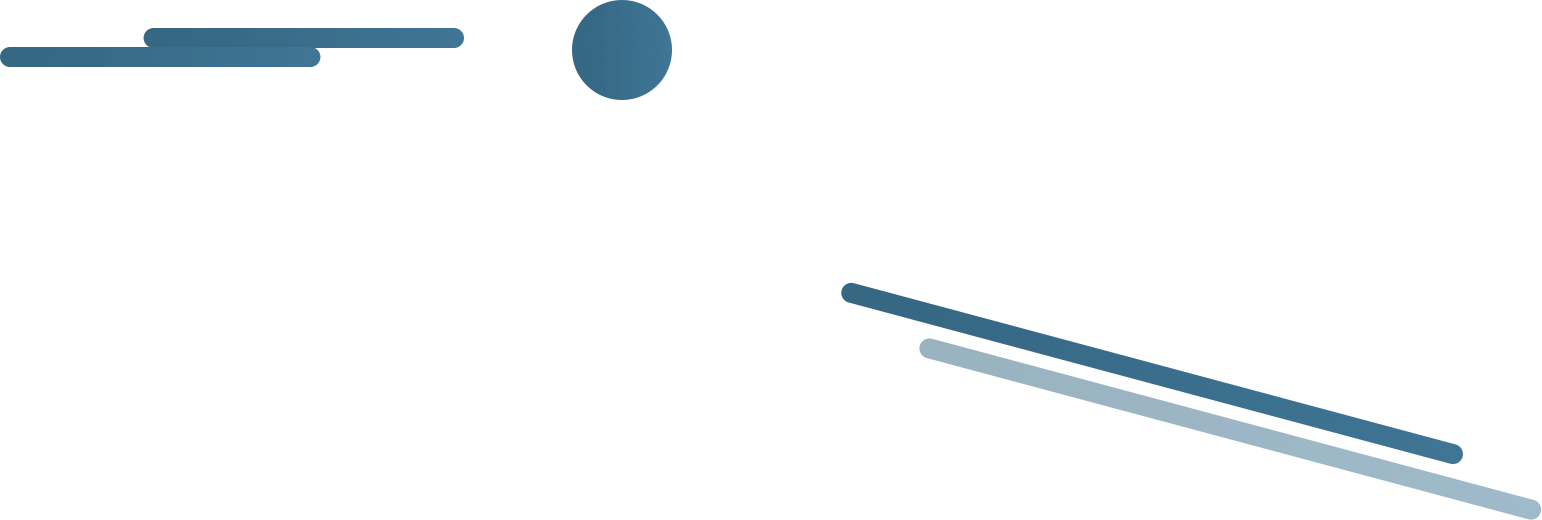
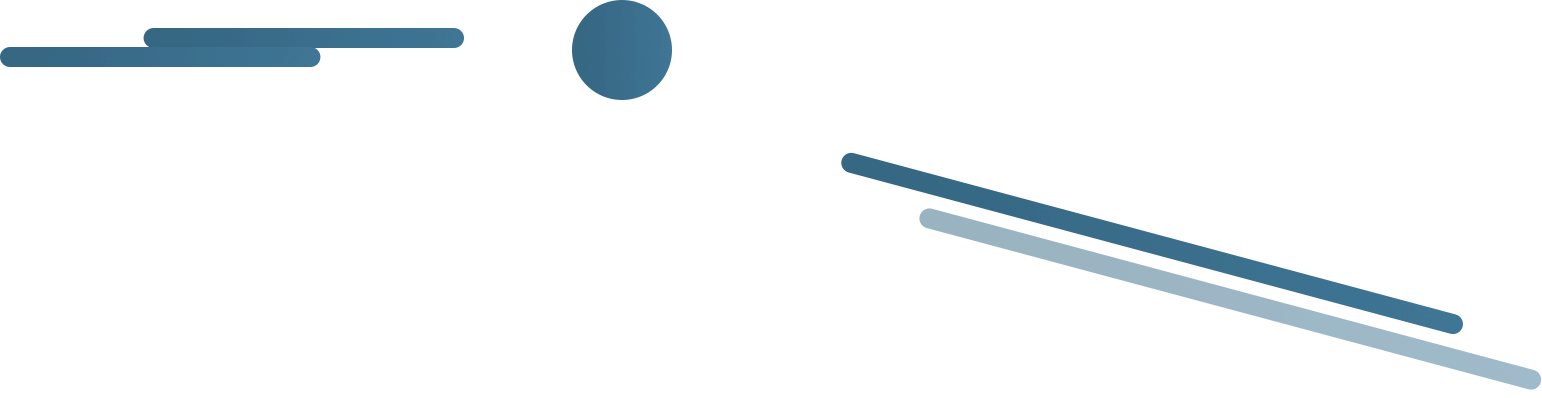
调整4:3显示器高度的适配问题

diff --git a/src/components/menu.vue b/src/components/menu.vue
@@ -102,11 +102,11 @@
 <style scoped>
   * {margin: 0; padding: 0;}
   html, body {width: 100%; height: 100%; min-height: 100%; overflow: hidden;}
-  .bg {height: 580px; position: relative; z-index: 1; background: #3d6e8a url('../assets/menu-bg.png') no-repeat center top;}
+  .bg {height: 480px; position: relative; z-index: 1; background: #3d6e8a url('../assets/menu-bg.png') no-repeat center top;}
   .f16 {font-size: 16px;}
   .menu {width: 100%; height: 175px;}
   .menu > .menuInfo, .menu > .menuItem {text-align: right; width: 66%; margin: 0 auto;}
-  .menu > .menuInfo {padding-top: 40px;}
+  .menu > .menuInfo {padding-top: 35px;}
   .menu > .menuItem {padding: 15px 0;}
 
   .menuInfo span, .menuItem a {font-size: 14px; color: #579bc2; text-align: right; display: inline-block; vertical-align: middle;}
@@ -127,7 +127,7 @@
   .menuItem .bag {width: 28px; height: 28px; border-radius: 10px; background: url('../assets/bag.png') no-repeat center center;}
   .menuItem .help {width: 28px; height: 28px; border-radius: 14px; background: url('../assets/help.png') no-repeat center center;}
 
-  .menuContent {position: fixed; top: 150px; left: 17%; width: 66%; margin: 0 auto; padding: 1%; box-shadow: 5px 25px 55px rgba(61, 110, 138, 0.3); background: white;}
+  .menuContent {position: fixed; top: 120px; left: 17%; width: 66%; margin: 0 auto; padding: 1%; box-shadow: 5px 25px 55px rgba(61, 110, 138, 0.3); background: white;}
   .menuContent ul {border-top: 1px solid #ccc; border-left: 1px solid #ccc; border-right: 1px solid #ccc; overflow: hidden; margin-top: -1px;}
   .menuContent ul:nth-child(3) {border-bottom: 0; border-right: 1px solid white;}
   .menuContent ul:nth-child(3) li {border-bottom: 1px solid #ccc;}
